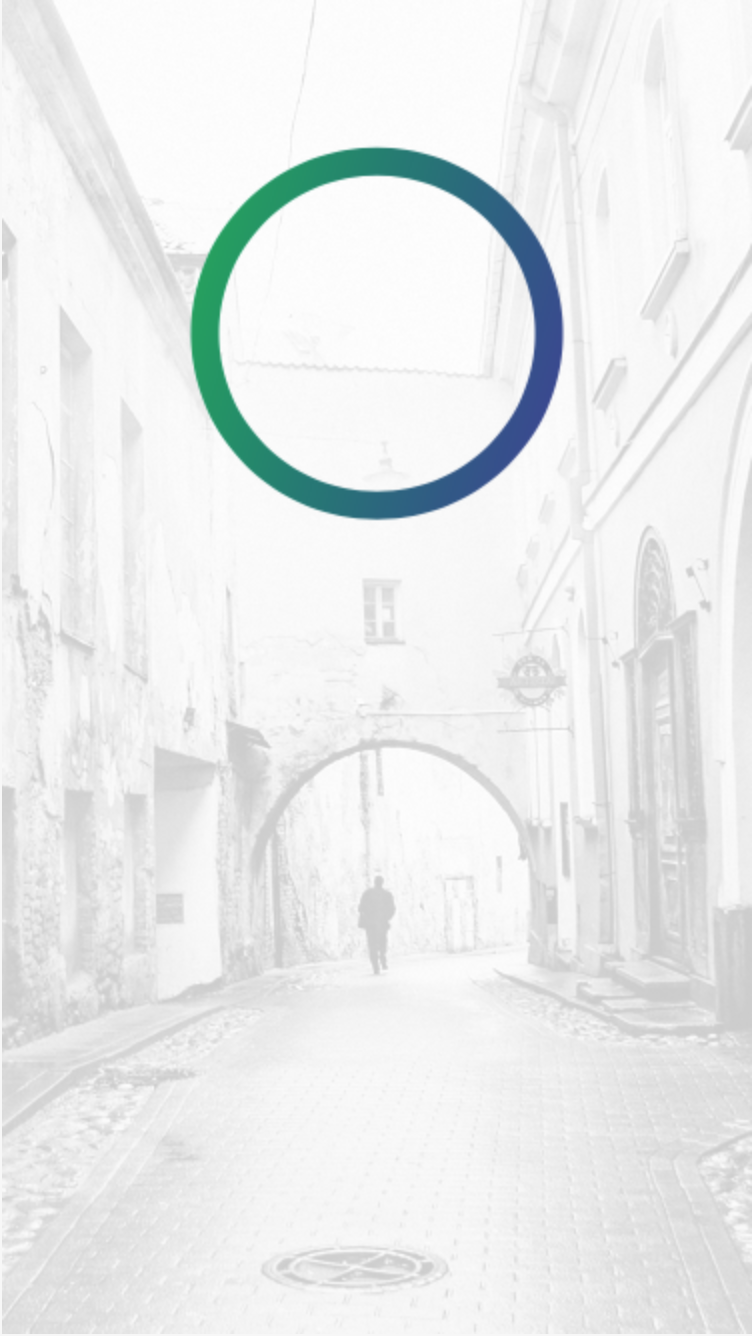
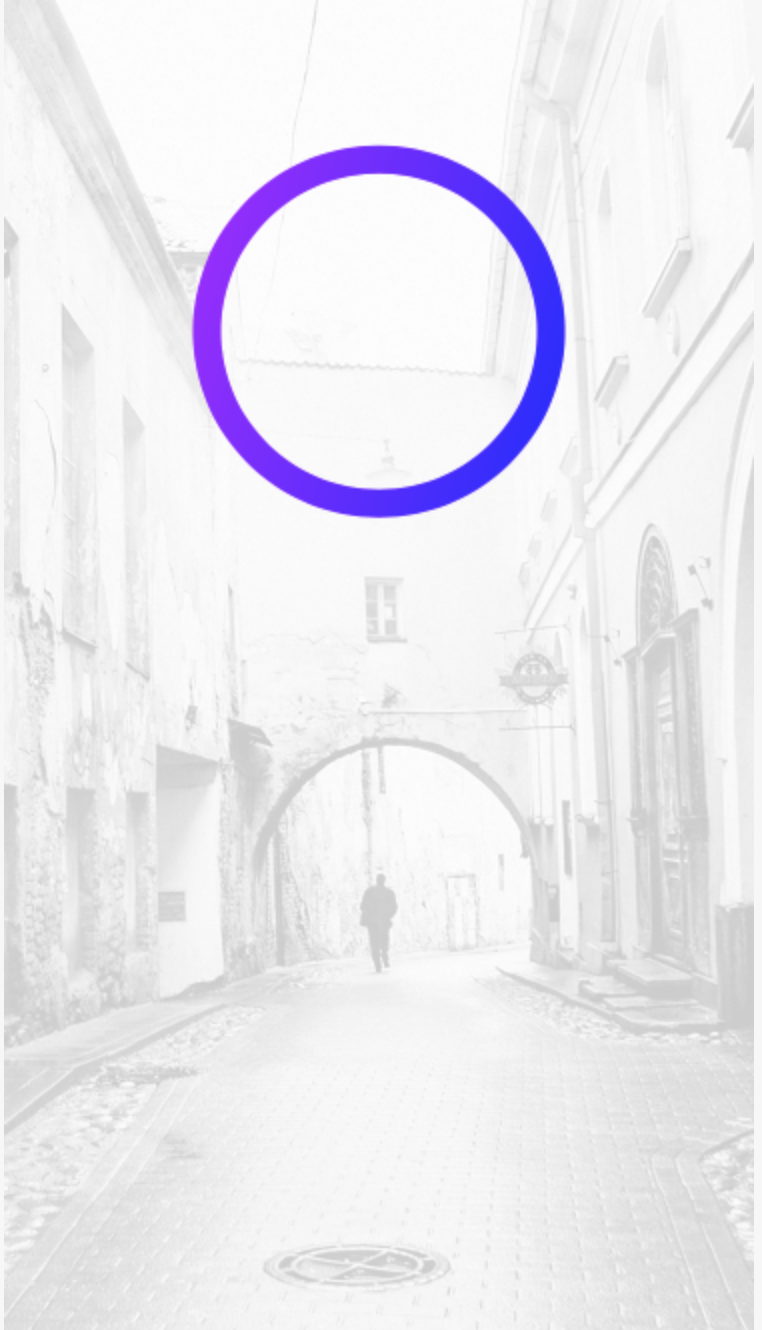
change up the colors

diff --git a/GradientSpinnerDemoPlayground.playground/Contents.swift b/GradientSpinnerDemoPlayground.playground/Contents.swift
@@ -35,8 +35,8 @@ let gradientLayerFrame = CGRect(
 let gradientAngle : CGFloat = (180.0-40.0)/CGFloat.pi
 let yDelta : CGFloat = round(tan(gradientAngle) * gradientLayerWH)
 
-let startColor : CGColor = UIColor(0x00a859).cgColor
-let endColor : CGColor = UIColor(0x3e4095).cgColor
+let startColor : CGColor = UIColor(0xa000ff).cgColor
+let endColor : CGColor = UIColor(0x2e00ff).cgColor
 let gradientLayer = CAGradientLayer()
 gradientLayer.colors = [startColor, endColor]
 gradientLayer.startPoint = CGPoint(x: 0.0, y: (gradientLayerWH-yDelta)/gradientLayerWH)
